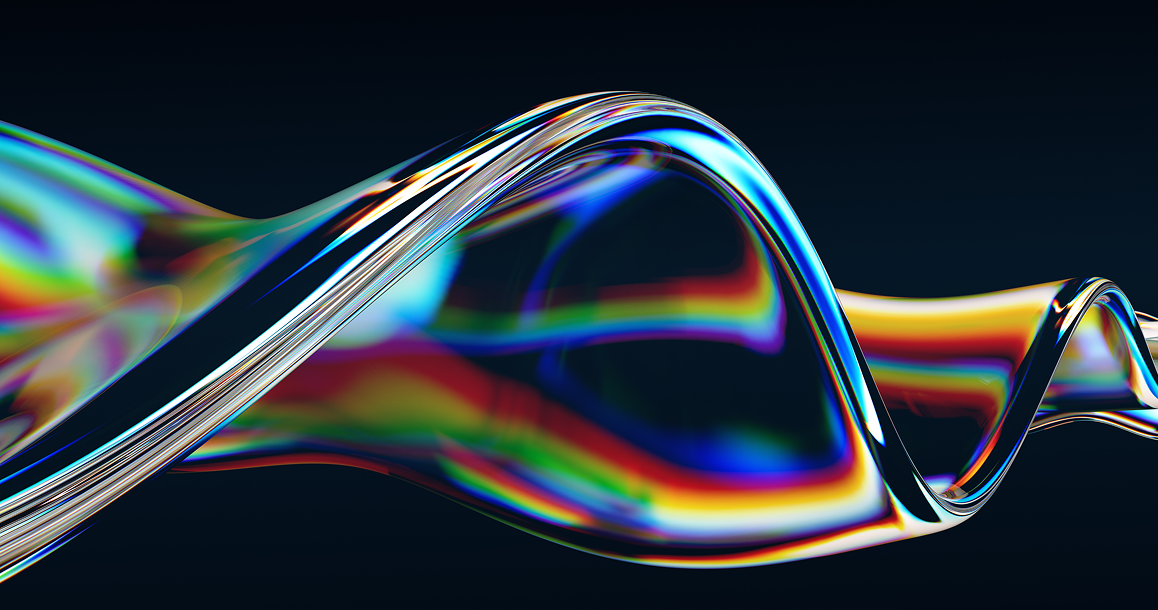
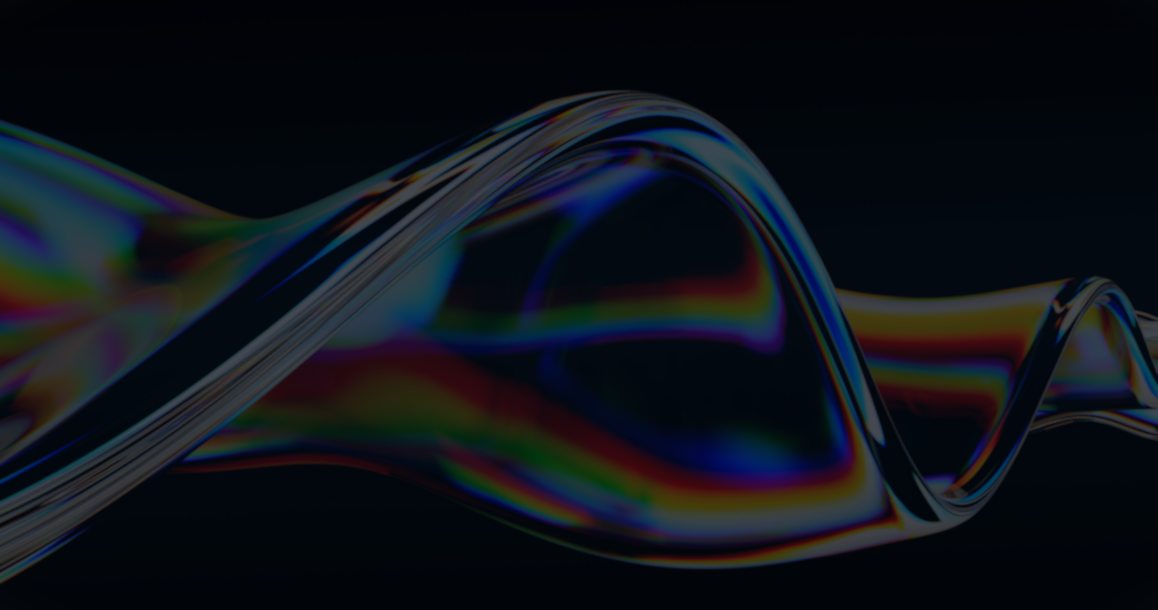
Hero bg is updated

diff --git a/index.html b/index.html
@@ -95,9 +95,7 @@
                   aria-label="close sidebar"
                   class="drawer-overlay"
                 ></label>
-                <ul
-                  class="menu bg-base-200 min-h-full w-50 p-4 text-black gap-2"
-                >
+                <ul class="menu bg-black min-h-full w-50 p-4 text-white gap-2">
                   <!-- Sidebar content here -->
                   <li class="btn">Projects</li>
                   <li class="btn">About</li>
@@ -112,15 +110,13 @@
         </div>
       </nav>
       <div
-        class="relative bg-[url('./Assets/Images/bg.png')] bg-no-repeat bg-center bg-cover py-5"
+        class="bg-[url('./Assets/Images/bg.png')] bg-no-repeat bg-center bg-cover py-5"
       >
         <!-- Black overlay -->
-        <div class="absolute inset-0 bg-black/60"></div>
+        <div class="bg-black/60"></div>
 
         <!-- Content -->
-        <div
-          class="relative z-10 text-white flex items-center justify-center h-full"
-        >
+        <div class="text-white flex items-center justify-center h-full">
           <h1
             class="text-center text-[80px] md:text-[120px] lg:text-[160px] tracking-tight leading-[90px] md:leading-[130px] py-5 font-medium"
           >
